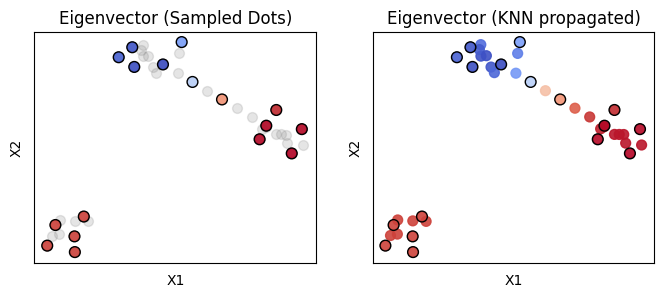
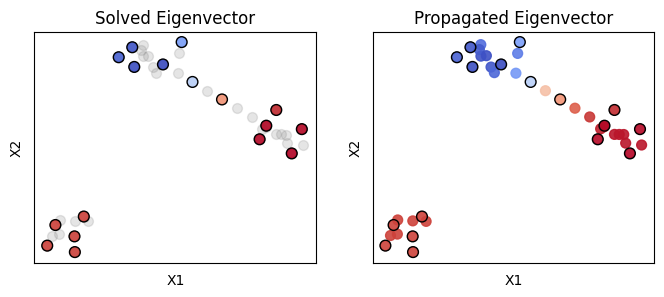
update image

Changed region(s): [[0.5723, 0.0303, 0.9639, 0.0909], [0.0904, 0.0303, 0.4518, 0.0909]]

diff --git a/docs/draft_nystrom.py b/docs/draft_nystrom.py
@@ -384,7 +384,7 @@ fig, axs = plt.subplots(1, 2, figsize=(8, 3))
 ax = axs[0]
 ax.scatter(all_dots[:, 0], all_dots[:, 1], c='grey', s=50, alpha=0.2)
 sc = ax.scatter(all_dots[sample_indices, 0], all_dots[sample_indices, 1], c=eigen_vector[sample_indices, 1], cmap='coolwarm', s=50, alpha=0.9, vmin=vmin1, vmax=vmax1)
-ax.set_title('Eigenvector (Sampled Dots)')
+ax.set_title('Solved Eigenvector')
 ax.set_xlabel('X1')
 ax.set_ylabel('X2')
 ax.scatter(all_dots[sample_indices, 0], all_dots[sample_indices, 1], facecolors='none', edgecolors='k', s=60)
@@ -394,7 +394,7 @@ ax.set_yticks([])
 # Plot the eigenvector for KNN propagated
 ax = axs[1]
 sc = ax.scatter(all_dots[:, 0], all_dots[:, 1], c=eigen_vector[:, 1], cmap='coolwarm', s=50, alpha=0.9, vmin=vmin1, vmax=vmax1)
-ax.set_title('Eigenvector (KNN propagated)')
+ax.set_title('Propagated Eigenvector')
 ax.set_xlabel('X1')
 ax.set_ylabel('X2')
 ax.scatter(all_dots[sample_indices, 0], all_dots[sample_indices, 1], facecolors='none', edgecolors='k', s=60)
